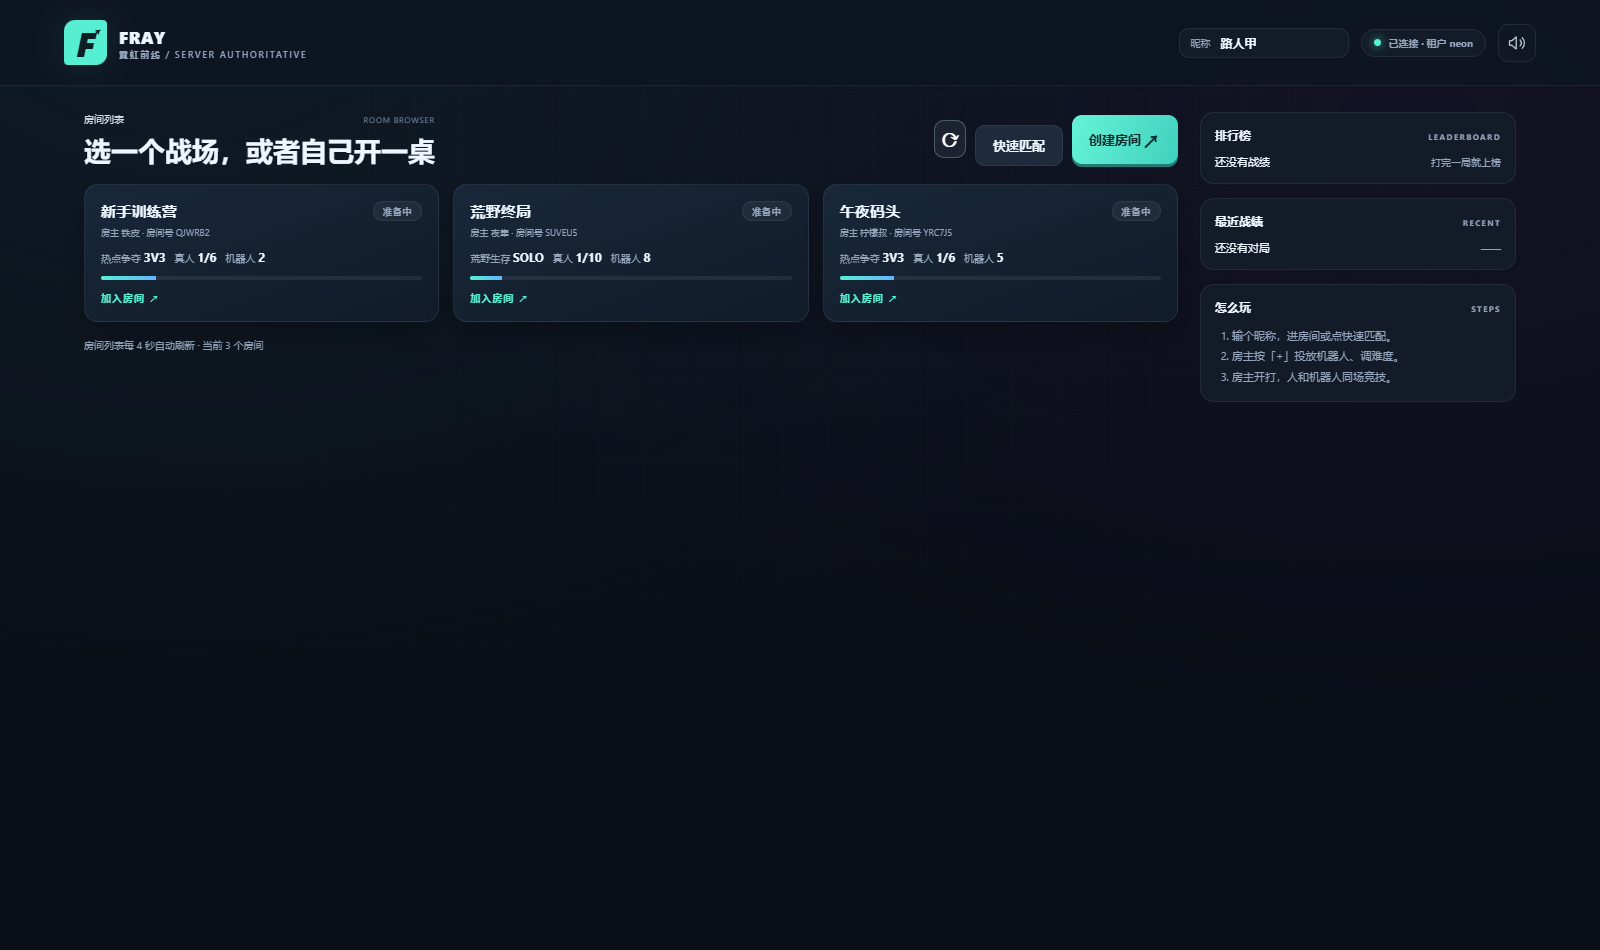
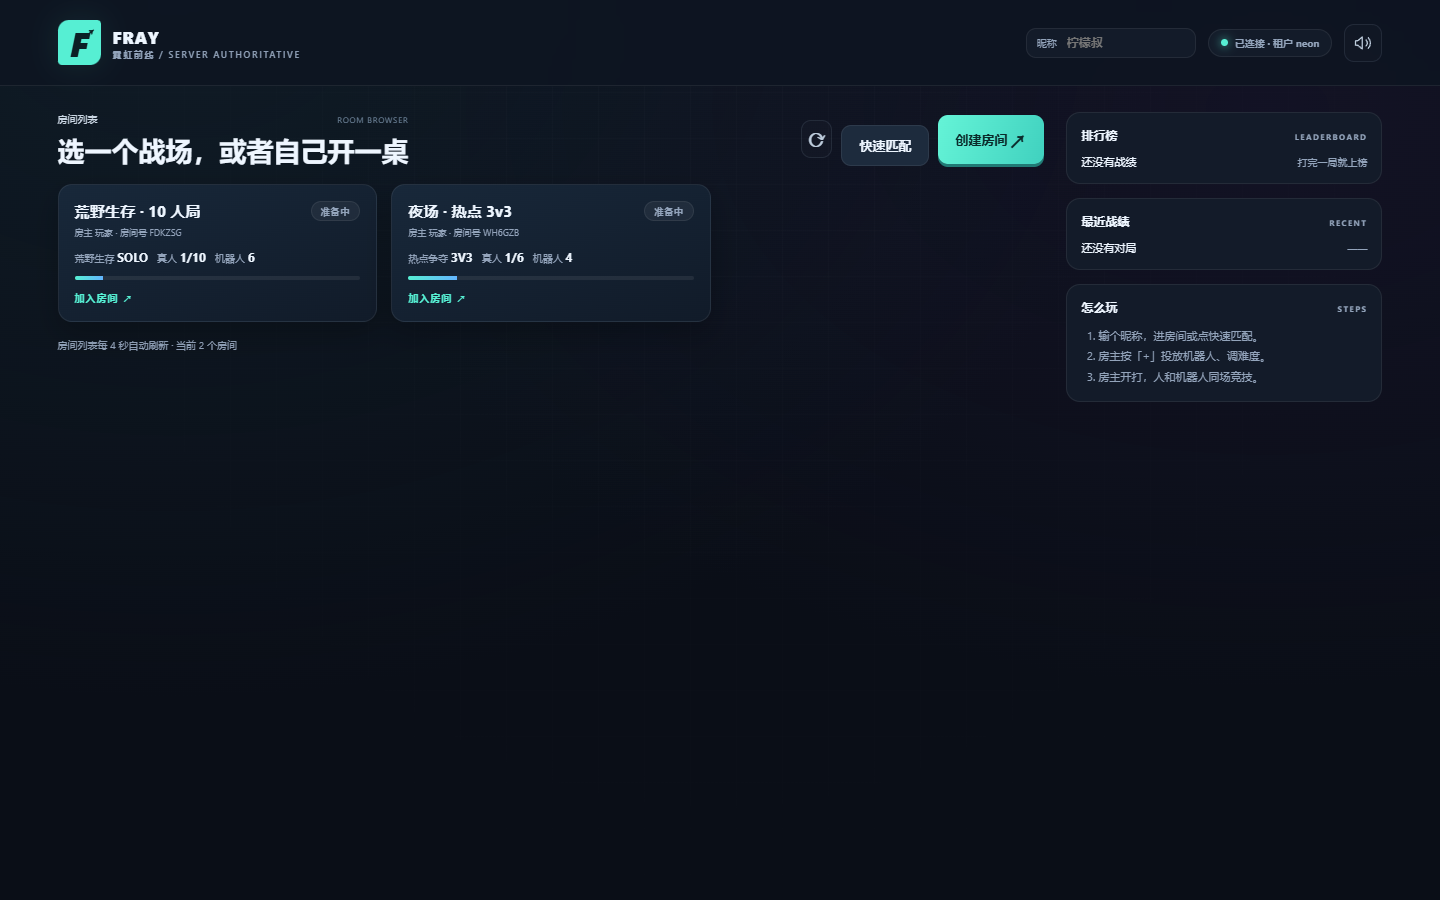
docs: README 截图换成线上生产实拍，并写明来源与拍法

diff --git a/docs/shots/README.md b/docs/shots/README.md
@@ -1,0 +1,19 @@
+# 截图来源
+
+这四张图不是本地开发环境的画面，而是**生产环境**的实拍：
+
+* 站点：<https://fray-seven.vercel.app>（Vercel 上的前端）
+* 后端：<https://fray-api.lemonhall2012.workers.dev>（Cloudflare Workers + Durable Objects）
+* 时间：2026-09-29
+
+拍法：Playwright 驱动本机 Chrome（1440×900，`channel:"chrome"`）真的打开线上站点，
+走一遍"进站 → 看到别人的桌子 → 自己开一桌 + 放 5 个机器人 → 第二个真人从列表加入 →
+房主开打 → 混战开火"，在四个节点截图。也就是说，图和线上跑的是同一条链路，
+没有为了截图临时造数据。
+
+| 文件 | 拍到的瞬间 |
+|---|---|
+| `00-rooms-list.png` | 房间浏览器：两张别人开的桌子（荒野生存 / 热点争夺 3v3） |
+| `02-lobby.png` | 候场：名册里 1 名真人 + 5 个机器人，房主可调人数 |
+| `03-arena.png` | 刚进场：地图 seed 已下发，第一帧权威快照已到 |
+| `05-brawl.png` | 混战：占点圈、队友、补给箱、HUD 全在跑 |

diff --git a/README.md b/README.md
@@ -19,6 +19,10 @@
 
 ![房间浏览器](docs/shots/00-rooms-list.png)
 
+> 下面这些图是**线上生产环境**的实拍（Playwright 真的打开 Vercel 上那个站点，
+> 走一遍开房 → 加入 → 放机器人 → 开打），来源与拍法见
+> [`docs/shots/README.md`](docs/shots/README.md)。
+
 | 候场：名册 + 房主控制 | 竞技场：人机混战 |
 |---|---|
 | ![候场](docs/shots/02-lobby.png) | ![混战](docs/shots/05-brawl.png) |
